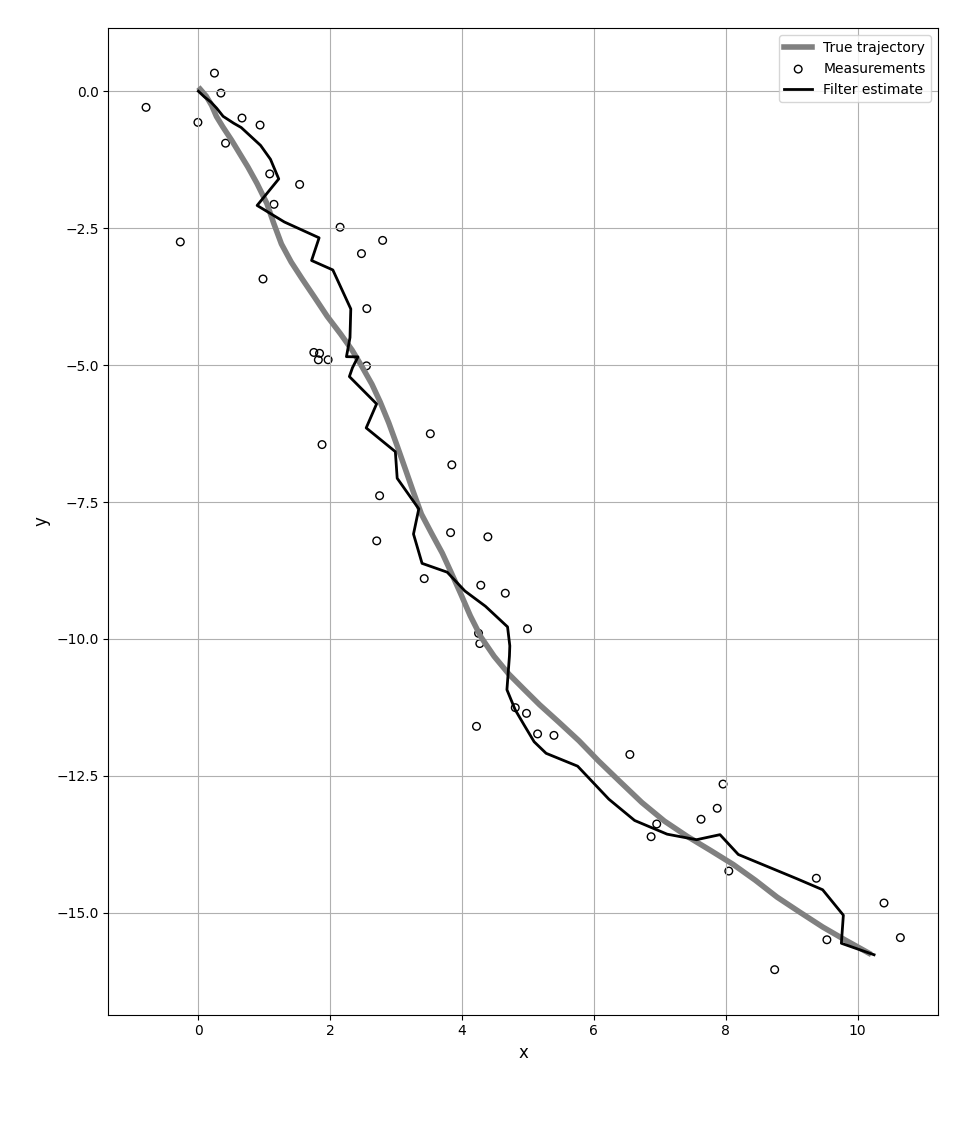
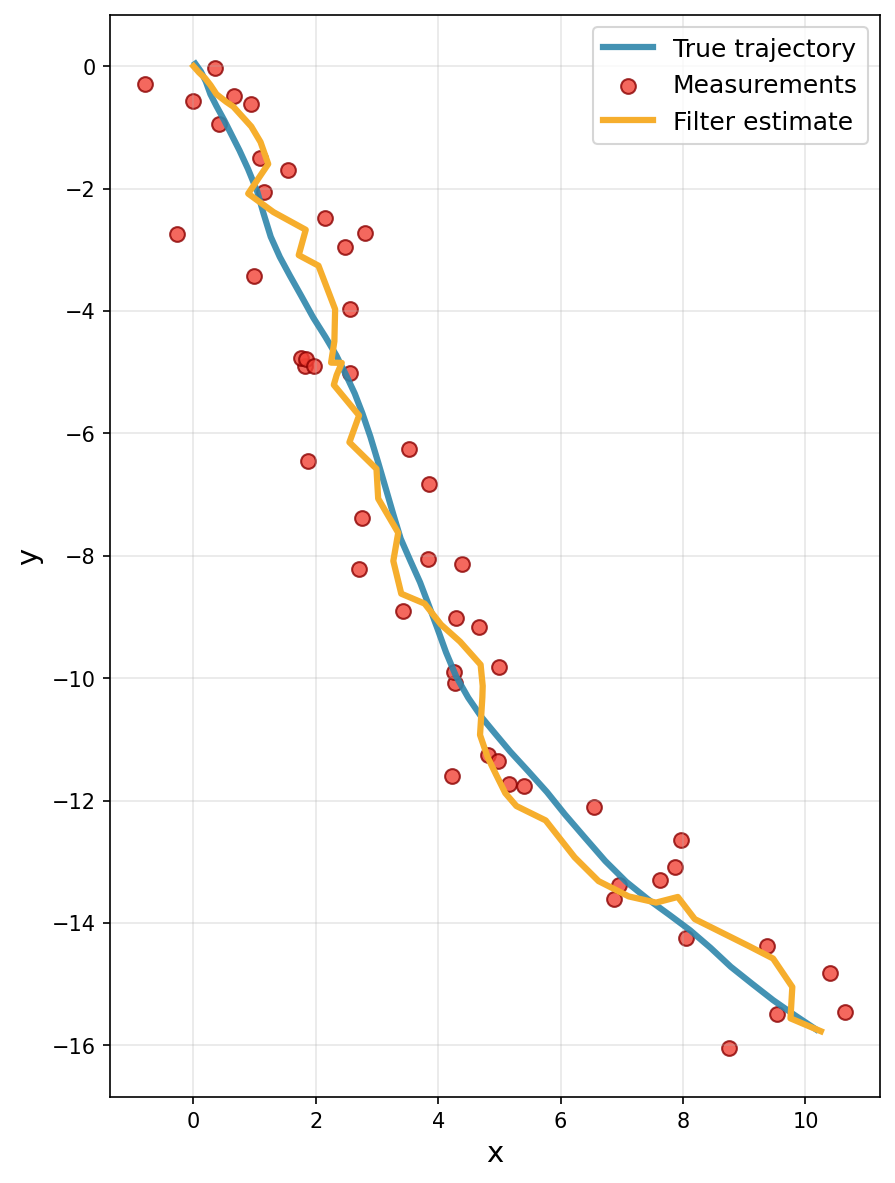
Fix and rerun kalman tracking

diff --git a/docs/examples/kalman_tracking.md b/docs/examples/kalman_tracking.md
@@ -49,9 +49,8 @@ def generate_car_tracking_data(key, num_steps=50):
     xs, ys = [], []
     key, state_key, obs_key = random.split(key, 3)
     x = m0 + chol_P0 @ random.normal(state_key, (x_dim,))
-    y = H @ x + chol_R @ random.normal(obs_key, (y_dim,))
     xs.append(x)
-    ys.append(y)
+    ys.append(jnp.full((y_dim,), jnp.nan)) # No observation at the initial time step
 
     for t in range(num_steps):
         key, state_key, obs_key = random.split(key, 3)
@@ -202,7 +201,7 @@ car's position.
     plt.grid(True, alpha=0.3)
     plt.gca().set_aspect('equal', adjustable='box')
     plt.tight_layout()
-    # plt.show()
+    plt.savefig("docs/assets/car_tracking.png", dpi=150, bbox_inches="tight")
     plt.close()
     ```
 
